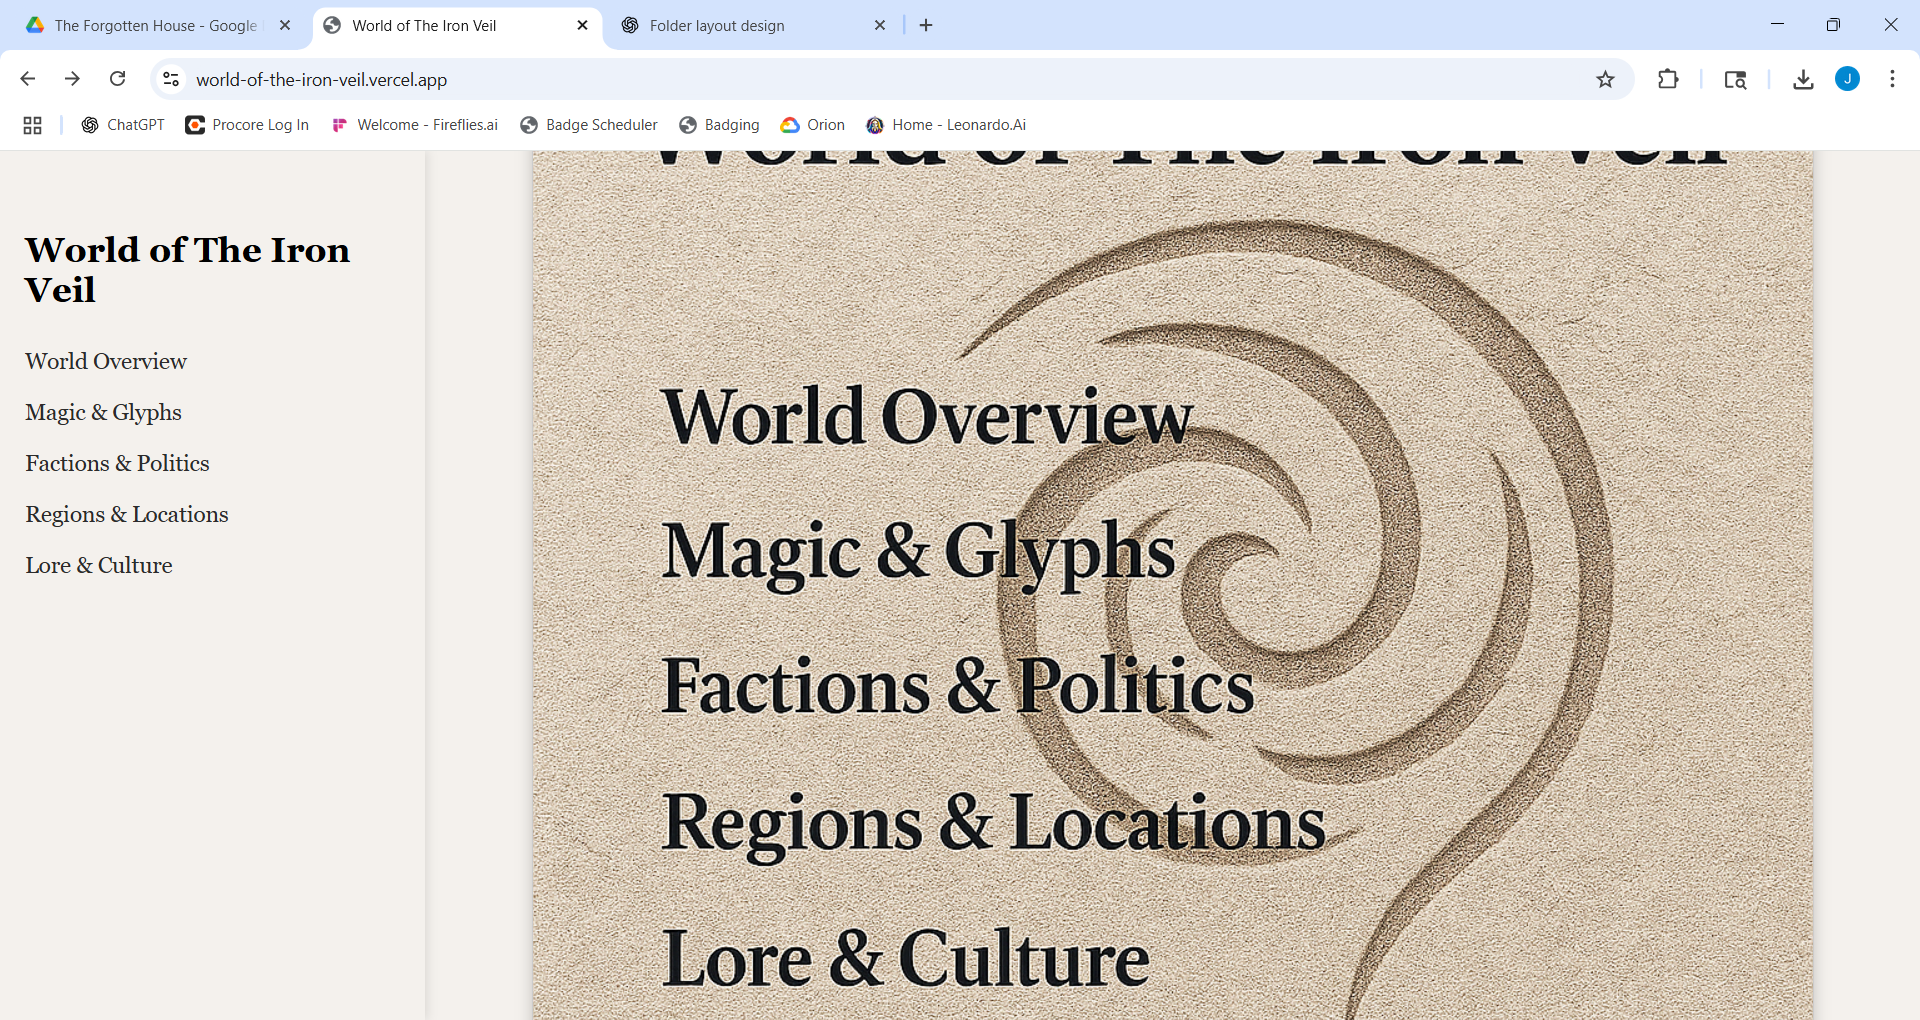
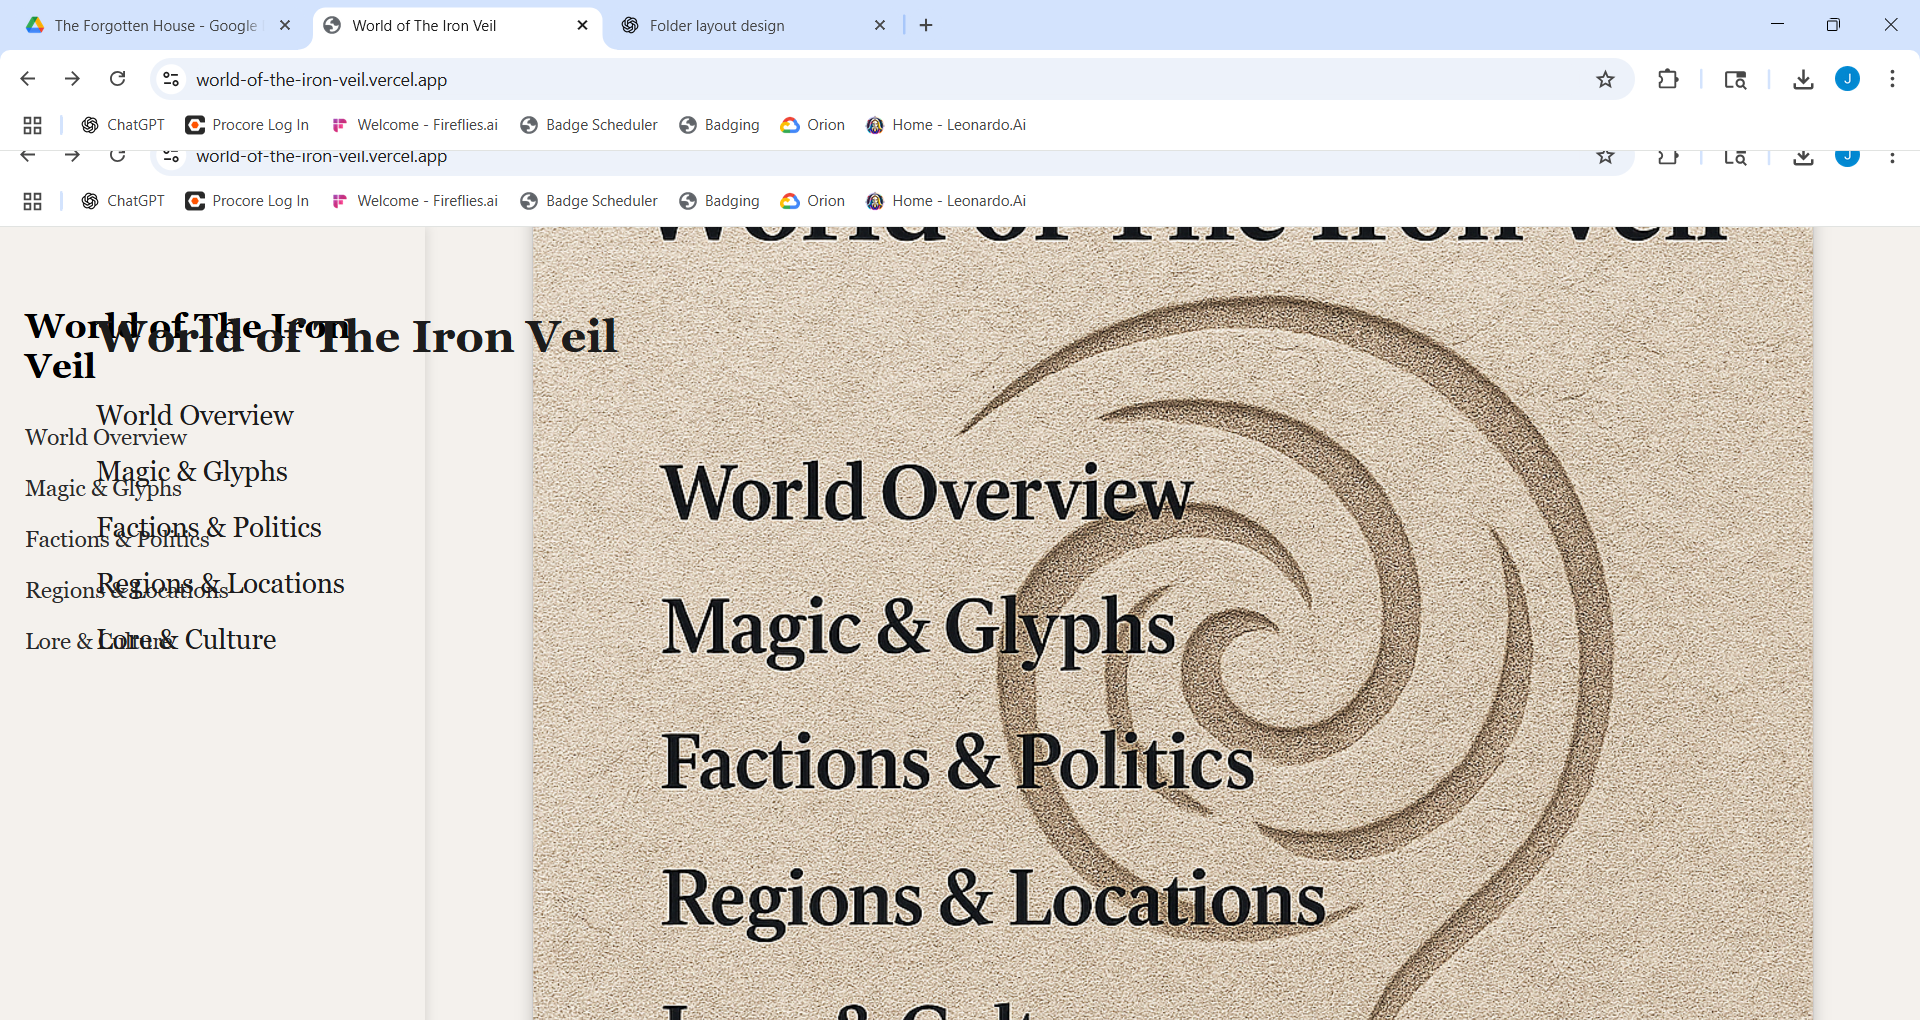
Add files via upload

diff --git a/style.css b/style.css
@@ -3,36 +3,29 @@ body {
     margin: 0;
     font-family: 'Georgia', serif;
     background-color: #f4f1ed;
-}
-
-.overlay-wrapper {
-    position: relative;
-    width: 100vw;
+    background-image: url("public/homepage_background.png");
+    background-size: cover;
+    background-position: center;
+    background-repeat: no-repeat;
     height: 100vh;
     overflow: hidden;
-}
-
-.background-image {
-    width: 100%;
-    height: 100%;
-    object-fit: cover;
-    position: absolute;
-    top: 0;
-    left: 0;
-    z-index: 0;
+    display: flex;
+    align-items: center;
+    justify-content: center;
 }
 
 .overlay-menu {
-    position: absolute;
-    top: 15%;
-    left: 5%;
-    z-index: 1;
-    color: #1c1c1c;
+    background-color: rgba(255, 244, 230, 0.75);
+    padding: 50px 60px;
+    border-radius: 16px;
+    text-align: center;
+    box-shadow: 0 0 12px rgba(0,0,0,0.25);
 }
 
 .overlay-menu h1 {
-    font-size: 36px;
+    font-size: 40px;
     margin-bottom: 30px;
+    color: #1c1c1c;
 }
 
 .overlay-menu ul {
@@ -41,11 +34,11 @@ body {
 }
 
 .overlay-menu ul li {
-    margin-bottom: 20px;
+    margin: 18px 0;
 }
 
 .overlay-menu ul li a {
-    font-size: 22px;
+    font-size: 24px;
     color: #1c1c1c;
     text-decoration: none;
 }

diff --git a/index.html b/index.html
@@ -6,18 +6,15 @@
     <link rel="stylesheet" href="style.css">
 </head>
 <body>
-    <div class="overlay-wrapper">
-        <img src="public/homepage_background.png" alt="Background" class="background-image"/>
-        <div class="overlay-menu">
-            <h1>World of The Iron Veil</h1>
-            <ul>
-                <li><a href="world-overview.html">World Overview</a></li>
-                <li><a href="magic-and-glyphs.html">Magic & Glyphs</a></li>
-                <li><a href="factions-and-politics.html">Factions & Politics</a></li>
-                <li><a href="regions-and-locations.html">Regions & Locations</a></li>
-                <li><a href="lore-and-culture.html">Lore & Culture</a></li>
-            </ul>
-        </div>
+    <div class="overlay-menu">
+        <h1>World of The Iron Veil</h1>
+        <ul>
+            <li><a href="world-overview.html">World Overview</a></li>
+            <li><a href="magic-and-glyphs.html">Magic & Glyphs</a></li>
+            <li><a href="factions-and-politics.html">Factions & Politics</a></li>
+            <li><a href="regions-and-locations.html">Regions & Locations</a></li>
+            <li><a href="lore-and-culture.html">Lore & Culture</a></li>
+        </ul>
     </div>
 </body>
 </html>
